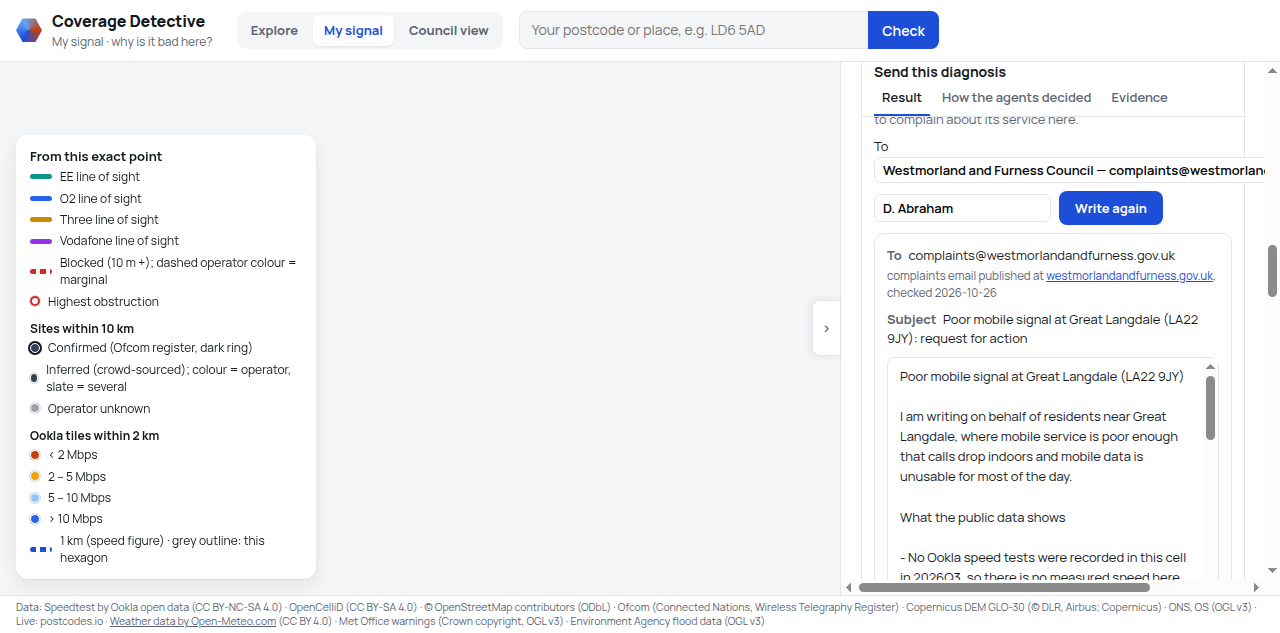
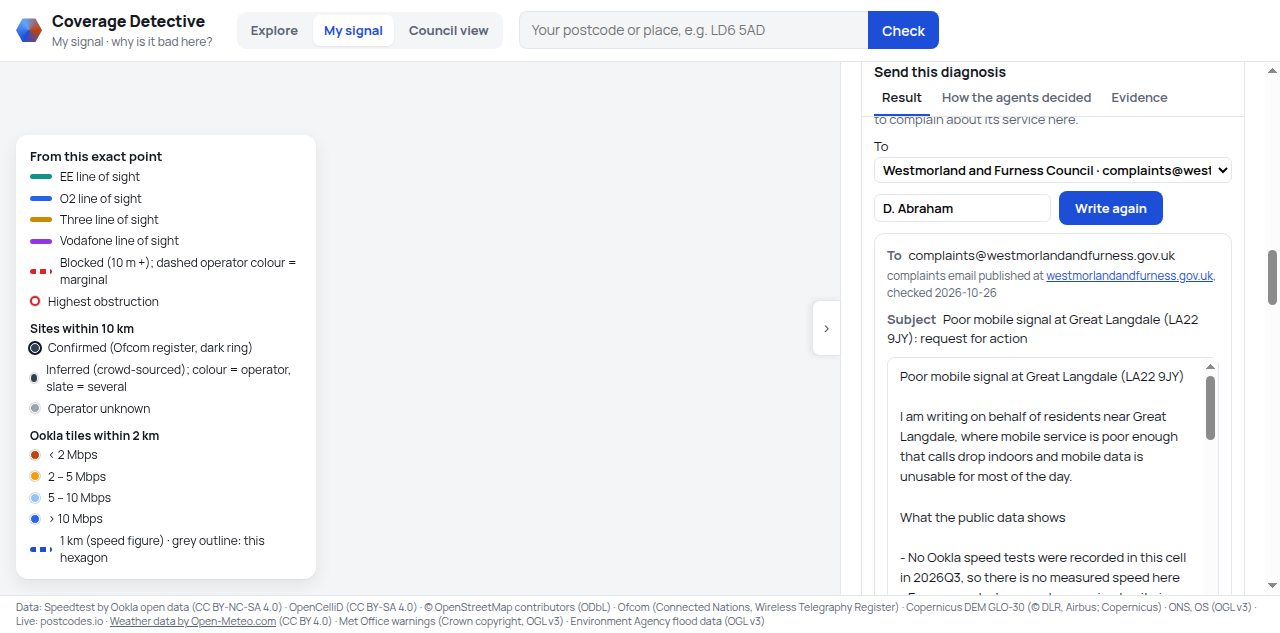
web: keep the recipient chooser inside the panel
A long option label stretched the select past the panel and gave the whole column a
horizontal scrollbar. The label now takes the row and the select follows its width.

Changed region(s): [[0.6562, 0.9005, 0.9062, 0.9605], [0.875, 0.2401, 1.0, 0.3002]]

diff --git a/web/style.css b/web/style.css
@@ -504,7 +504,7 @@ svg.wm { width: 100%; height: auto; max-height: 340px; background: #fff; border:
 .net-rank, .actions { margin: 0; padding-left: var(--s4); }
 .net-rank li, .actions li { margin-bottom: var(--s1); }
 .conf-word { font-size: var(--fs-s); color: var(--muted); }
-.letter-controls { display: flex; gap: var(--s2); align-items: center; flex-wrap: wrap; font-size: var(--fs-s); margin: var(--s2) 0; }
+.letter-controls { display: flex; gap: var(--s2); align-items: center; flex-wrap: wrap; font-size: var(--fs-s); margin: var(--s2) 0; min-width: 0; }
 .letter-text { width: 100%; font: var(--fs-s)/1.5 var(--mono); padding: var(--s2); border: 1px solid var(--line); border-radius: 8px; resize: vertical; background: #fff; }
 .email-card { border: 1px solid var(--line); border-radius: 10px; padding: var(--s3); margin: var(--s2) 0 var(--s3); background: #fff; }
 .email-head { font-size: var(--fs-s); margin: 0 0 var(--s2); word-break: break-word; }
@@ -513,6 +513,8 @@ svg.wm { width: 100%; height: auto; max-height: 340px; background: #fff; border:
 .email-head strong { color: var(--muted); margin-right: var(--s1); }
 .email-head a { color: var(--accent); }
 .letter-controls input#email-name { font: 600 var(--fs-s) var(--sans); padding: 4px var(--s2); border: 1px solid var(--line); border-radius: 6px; max-width: 190px; }
+.letter-controls > label:has(#email-to) { flex: 1 1 100%; min-width: 0; max-width: 100%; }
+.letter-controls #email-to { width: 100%; max-width: 100%; min-width: 0; }
 .md { background: #fff; border: 1px solid var(--line); border-radius: 8px; padding: var(--s3) var(--s4); }
 
 /* Council view: zone table */
